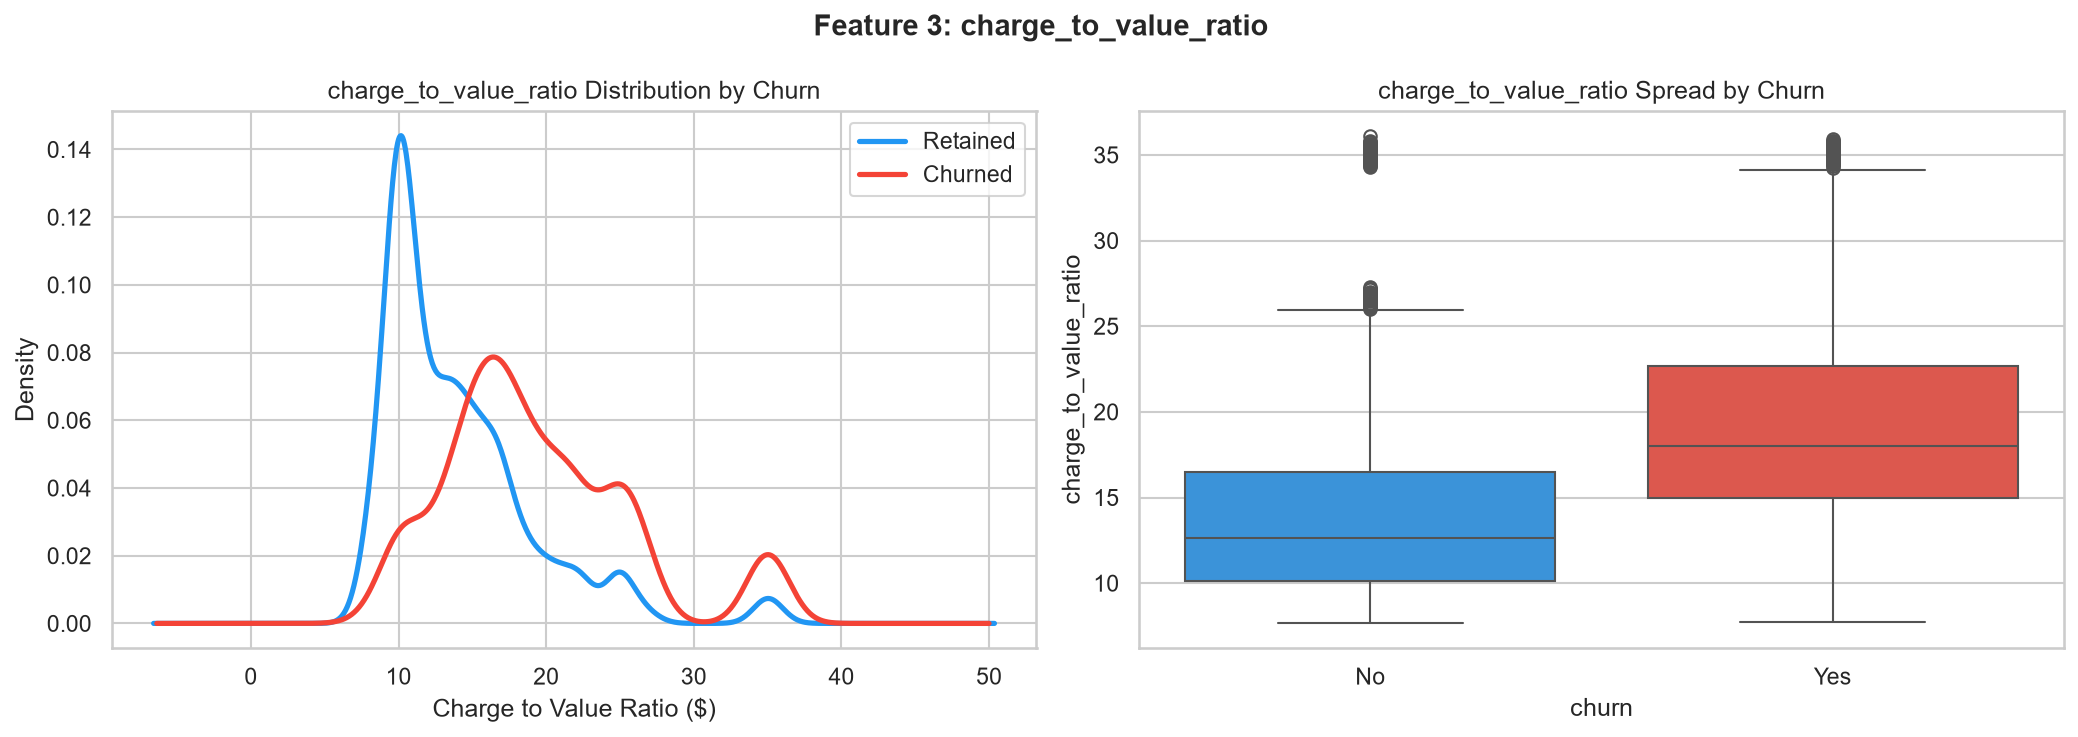
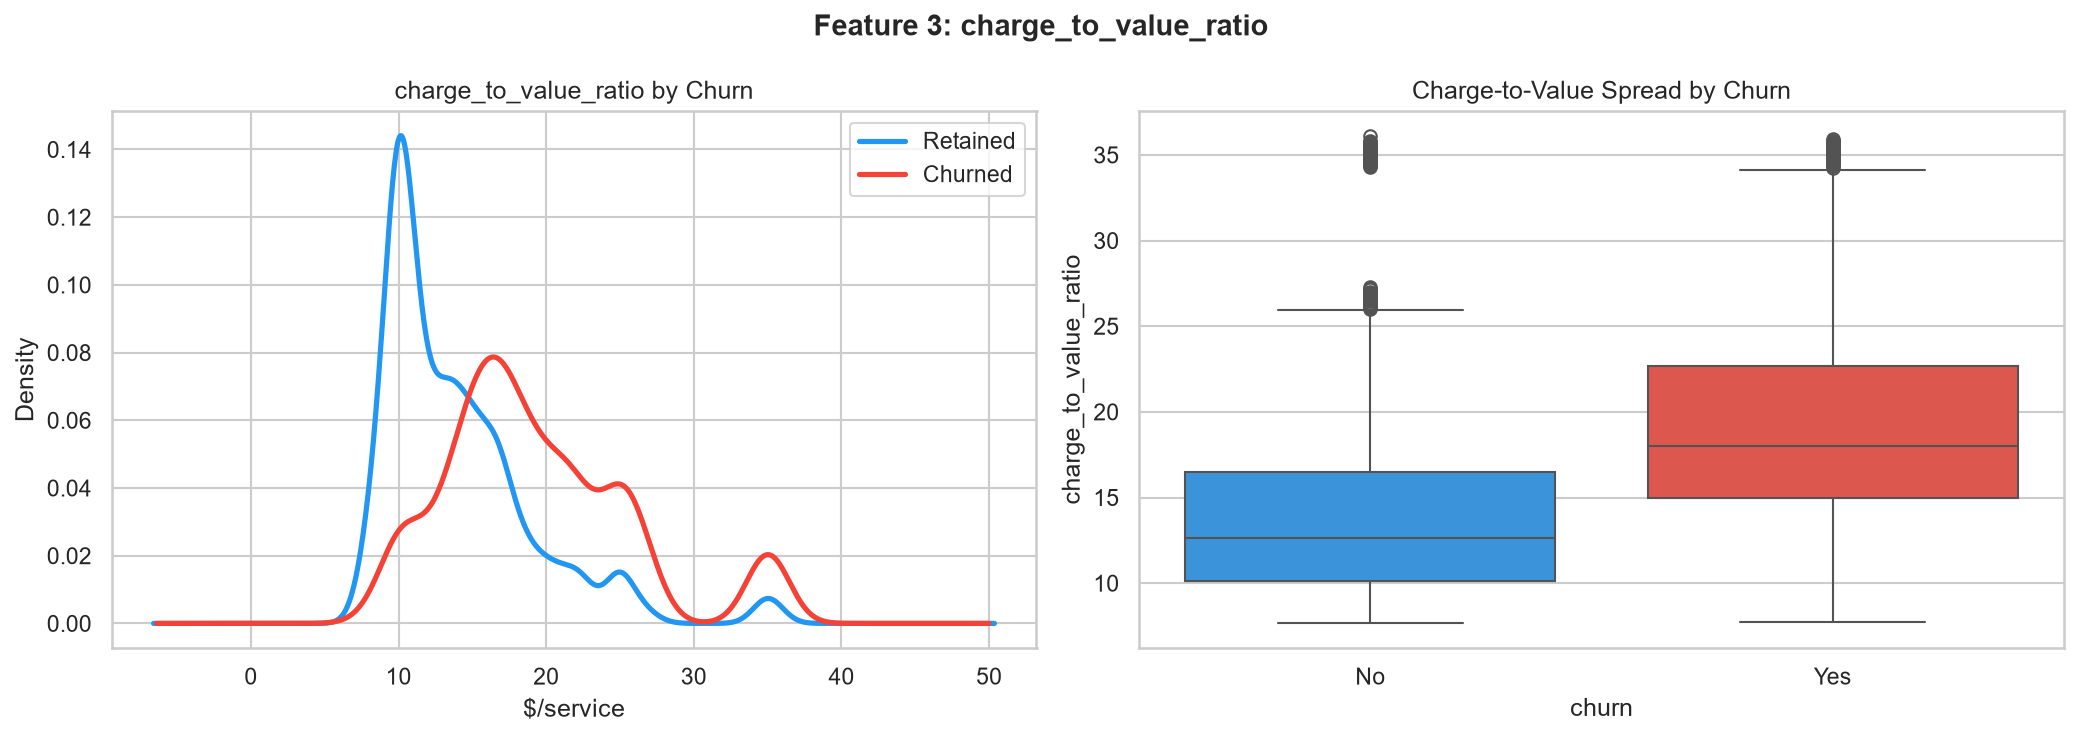
simplified feature engineering

Changed region(s): [[0.154, 0.0936, 0.4004, 0.156], [0.6776, 0.0936, 0.8624, 0.156], [0.2156, 0.9362, 0.3388, 0.9986]]

diff --git a/feature_engineering.py b/feature_engineering.py
@@ -7,201 +7,162 @@ from dotenv import load_dotenv
 import os
 import warnings
 warnings.filterwarnings("ignore")
- 
-# 0. SETUP 
+
+# ── SETUP ────────────────────────────────────────────────────────────────────
 load_dotenv()
- 
+
 engine = create_engine(
     f"postgresql+psycopg2://{os.getenv('DB_USER')}:{os.getenv('DB_PASSWORD')}"
     f"@{os.getenv('DB_HOST')}:{os.getenv('DB_PORT')}/{os.getenv('DB_NAME')}"
 )
- 
+
 sns.set_theme(style="whitegrid", palette="muted")
+PALETTE    = {"No": "#2196F3", "Yes": "#F44336"}
 OUTPUT_DIR = "feature_engineering_outputs"
 os.makedirs(OUTPUT_DIR, exist_ok=True)
- 
+
 df = pd.read_sql("SELECT * FROM customers", engine)
 df["total_charges"] = pd.to_numeric(df["total_charges"], errors="coerce").fillna(0)
-print(f"Loaded {df.shape[0]} rows, {df.shape[1]} columns\n")
- 
+print(f"✅ Loaded {df.shape[0]} rows, {df.shape[1]} columns\n")
+
 # Normalize service columns upfront
-service_all = ["phone_service", "multiple_lines", "online_security",
-               "online_backup", "device_protection", "tech_support",
-               "streaming_tv", "streaming_movies"]
-for col in service_all:
+SERVICE_COLS = [
+    "phone_service", "multiple_lines", "online_security",
+    "online_backup",  "device_protection", "tech_support",
+    "streaming_tv",   "streaming_movies"
+]
+for col in SERVICE_COLS:
     df[col] = df[col].replace({"No internet service": "No", "No phone service": "No"})
 
-# Feature 1: charge_per_tenure
-print("=" * 60)
-print("FEATURE 1 — charge_per_tenure")
-print("=" * 60)
- 
+# ── REUSABLE HELPERS ─────────────────────────────────────────────────────────
+
+def print_feature(name, formula, col):
+    """Print feature stats — min, max, mean by churn."""
+    print(f"\nFormula  : {formula}")
+    print(f"Min/Max  : {df[col].min():.2f} / {df[col].max():.2f}")
+    print(f"Mean by churn:\n{df.groupby('churn')[col].mean().round(3)}")
+
+def plot_kde_box(col, title, xlabel, filename):
+    """KDE + boxplot side by side — used for continuous features."""
+    fig, axes = plt.subplots(1, 2, figsize=(14, 5))
+    for val, color, label in [("No", "#2196F3", "Retained"), ("Yes", "#F44336", "Churned")]:
+        df[df["churn"] == val][col].plot.kde(
+            ax=axes[0], color=color, label=label, linewidth=2.5)
+    axes[0].set_title(f"{col} Distribution by Churn")
+    axes[0].set_xlabel(xlabel)
+    axes[0].legend()
+    sns.boxplot(data=df, x="churn", y=col, ax=axes[1], palette=PALETTE)
+    axes[1].set_title(f"{col} Spread by Churn")
+    plt.suptitle(title, fontsize=14, fontweight="bold")
+    plt.tight_layout()
+    plt.savefig(f"{OUTPUT_DIR}/{filename}", dpi=150, bbox_inches="tight")
+    plt.close()
+    print(f"Plot saved: {OUTPUT_DIR}/{filename}")
+
+def plot_bar_box(col, title, xlabel, filename):
+    """Stacked bar + boxplot — used for count-based features."""
+    fig, axes = plt.subplots(1, 2, figsize=(14, 5))
+    ct = df.groupby([col, "churn"]).size().unstack(fill_value=0)
+    ct_pct = ct.div(ct.sum(axis=1), axis=0) * 100
+    ct_pct.plot(kind="bar", stacked=True, ax=axes[0],
+                color=["#2196F3", "#F44336"], edgecolor="white", rot=0)
+    axes[0].set_title(f"Churn Rate by {col}")
+    axes[0].set_xlabel(xlabel)
+    axes[0].legend(title="Churn", labels=["No", "Yes"])
+    sns.boxplot(data=df, x="churn", y=col, ax=axes[1], palette=PALETTE)
+    axes[1].set_title(f"{col} Spread by Churn")
+    plt.suptitle(title, fontsize=14, fontweight="bold")
+    plt.tight_layout()
+    plt.savefig(f"{OUTPUT_DIR}/{filename}", dpi=150, bbox_inches="tight")
+    plt.close()
+    print(f"Plot saved: {OUTPUT_DIR}/{filename}")
+
+def section(n, name):
+    """Print section header."""
+    print(f"\n{'=' * 60}")
+    print(f"FEATURE {n} — {name}")
+    print("=" * 60)
+
+# ── FEATURE 1: charge_per_tenure ─────────────────────────────────────────────
+section(1, "charge_per_tenure")
 df["charge_per_tenure"] = df["total_charges"] / (df["tenure"] + 1)
- 
-print(f"\nFormula  : total_charges / (tenure + 1)")
-print(f"Min/Max  : {df['charge_per_tenure'].min():.2f} / {df['charge_per_tenure'].max():.2f}")
-print(f"Mean by churn:\n{df.groupby('churn')['charge_per_tenure'].mean().round(2)}")
- 
-fig, axes = plt.subplots(1, 2, figsize=(14, 5))
-for val, color, label in [("No", "#2196F3", "Retained"), ("Yes", "#F44336", "Churned")]:
-    df[df["churn"] == val]["charge_per_tenure"].plot.kde(ax=axes[0], color=color, label=label, linewidth=2.5)
-axes[0].set_title("charge_per_tenure Distribution by Churn")
-axes[0].set_xlabel("Charge per Tenure ($)")
-axes[0].legend()
-sns.boxplot(data=df, x="churn", y="charge_per_tenure", ax=axes[1], palette={"No": "#2196F3", "Yes": "#F44336"})
-axes[1].set_title("charge_per_tenure Spread by Churn")
-plt.suptitle("Feature 1: charge_per_tenure", fontsize=14, fontweight="bold")
-plt.tight_layout()
-plt.savefig(f"{OUTPUT_DIR}/01_charge_per_tenure.png", dpi=150, bbox_inches="tight")
-plt.close()
-print(f"Plot saved: {OUTPUT_DIR}/01_charge_per_tenure.png")
+print_feature("charge_per_tenure", "total_charges / (tenure + 1)", "charge_per_tenure")
+plot_kde_box("charge_per_tenure", "Feature 1: charge_per_tenure",
+             "Charge per Tenure ($)", "01_charge_per_tenure.png")
 
-# Feature 2 : Service Count
-print("\n" + "=" * 60)
-print("FEATURE 2 — service_count")
-print("=" * 60)
- 
-df["service_count"] = df[service_all].apply(lambda row: (row == "Yes").sum(), axis=1)
- 
-print(f"\nFormula  : count of subscribed add-on services (0-8)")
-print(f"Min/Max  : {df['service_count'].min()} / {df['service_count'].max()}")
-print(f"Mean by churn:\n{df.groupby('churn')['service_count'].mean().round(2)}")
- 
-fig, axes = plt.subplots(1, 2, figsize=(14, 5))
-sc_churn = df.groupby(["service_count", "churn"]).size().unstack(fill_value=0)
-sc_pct = sc_churn.div(sc_churn.sum(axis=1), axis=0) * 100
-sc_pct.plot(kind="bar", stacked=True, ax=axes[0], color=["#2196F3", "#F44336"], edgecolor="white", rot=0)
-axes[0].set_title("Churn Rate by Service Count")
-axes[0].set_xlabel("Number of Services")
-axes[0].legend(title="Churn", labels=["No", "Yes"])
-sns.boxplot(data=df, x="churn", y="service_count", ax=axes[1], palette={"No": "#2196F3", "Yes": "#F44336"})
-axes[1].set_title("Service Count Spread by Churn")
-plt.suptitle("Feature 2: service_count", fontsize=14, fontweight="bold")
-plt.tight_layout()
-plt.savefig(f"{OUTPUT_DIR}/02_service_count.png", dpi=150, bbox_inches="tight")
-plt.close()
-print(f"Plot saved: {OUTPUT_DIR}/02_service_count.png")
+# ── FEATURE 2: service_count ──────────────────────────────────────────────────
+section(2, "service_count")
+df["service_count"] = df[SERVICE_COLS].apply(lambda row: (row == "Yes").sum(), axis=1)
+print_feature("service_count", "count of subscribed services (0-8)", "service_count")
+plot_bar_box("service_count", "Feature 2: service_count",
+             "Number of Services", "02_service_count.png")
 
-# Feature 3: charge_to_value_ratio
-print("\n" + "=" * 60)
-print("FEATURE 3 — charge_to_value_ratio")
-print("=" * 60)
- 
-df["charge_to_value_ratio"] = df["monthly_charges"] / (df["service_count"] + 1)
- 
-print(f"\nFormula  : monthly_charges / (service_count + 1)")
-print(f"Min/Max  : {df['charge_to_value_ratio'].min():.2f} / {df['charge_to_value_ratio'].max():.2f}")
-print(f"Mean by churn:\n{df.groupby('churn')['charge_to_value_ratio'].mean().round(2)}")
- 
-fig, axes = plt.subplots(1, 2, figsize=(14, 5))
-for val, color, label in [("No", "#2196F3", "Retained"), ("Yes", "#F44336", "Churned")]:
-    df[df["churn"] == val]["charge_to_value_ratio"].plot.kde(ax=axes[0], color=color, label=label, linewidth=2.5)
-axes[0].set_title("charge_to_value_ratio by Churn")
-axes[0].set_xlabel("$/service")
-axes[0].legend()
-sns.boxplot(data=df, x="churn", y="charge_to_value_ratio", ax=axes[1], palette={"No": "#2196F3", "Yes": "#F44336"})
-axes[1].set_title("Charge-to-Value Spread by Churn")
-plt.suptitle("Feature 3: charge_to_value_ratio", fontsize=14, fontweight="bold")
-plt.tight_layout()
-plt.savefig(f"{OUTPUT_DIR}/03_charge_to_value_ratio.png", dpi=150, bbox_inches="tight")
-plt.close()
-print(f"Plot saved: {OUTPUT_DIR}/03_charge_to_value_ratio.png")
+# ── FEATURE 3: charge_to_value_ratio ─────────────────────────────────────────
+section(3, "charge_to_value_ratio")
+df["charge_to_value_ratio"] = (df["monthly_charges"] / (df["service_count"] + 1)).round(4)
+print_feature("charge_to_value_ratio", "monthly_charges / (service_count + 1)", "charge_to_value_ratio")
+plot_kde_box("charge_to_value_ratio", "Feature 3: charge_to_value_ratio",
+             "$/service", "03_charge_to_value_ratio.png")
 
-#Feature 4: support_dependency_score
-print("\n" + "=" * 60)
-print("FEATURE 4 — support_dependency_score")
-print("=" * 60)
- 
-support_cols = ["online_security", "device_protection", "tech_support", "online_backup"]
-df["support_dependency_score"] = df[support_cols].apply(lambda row: (row == "Yes").sum(), axis=1)
- 
-print(f"\nFormula  : count of support/protection services (0-4)")
-print(f"Min/Max  : {df['support_dependency_score'].min()} / {df['support_dependency_score'].max()}")
-print(f"Mean by churn:\n{df.groupby('churn')['support_dependency_score'].mean().round(2)}")
- 
-fig, axes = plt.subplots(1, 2, figsize=(14, 5))
-sd_churn = df.groupby(["support_dependency_score", "churn"]).size().unstack(fill_value=0)
-sd_pct = sd_churn.div(sd_churn.sum(axis=1), axis=0) * 100
-sd_pct.plot(kind="bar", stacked=True, ax=axes[0], color=["#2196F3", "#F44336"], edgecolor="white", rot=0)
-axes[0].set_title("Churn Rate by Support Dependency Score")
-axes[0].set_xlabel("Support Services (0-4)")
-axes[0].legend(title="Churn", labels=["No", "Yes"])
-sns.boxplot(data=df, x="churn", y="support_dependency_score", ax=axes[1], palette={"No": "#2196F3", "Yes": "#F44336"})
-axes[1].set_title("Support Dependency Spread by Churn")
-plt.suptitle("Feature 4: support_dependency_score", fontsize=14, fontweight="bold")
-plt.tight_layout()
-plt.savefig(f"{OUTPUT_DIR}/04_support_dependency_score.png", dpi=150, bbox_inches="tight")
-plt.close()
-print(f"Plot saved: {OUTPUT_DIR}/04_support_dependency_score.png")
+# ── FEATURE 4: support_dependency_score ──────────────────────────────────────
+section(4, "support_dependency_score")
+SUPPORT_COLS = ["online_security", "device_protection", "tech_support", "online_backup"]
+df["support_dependency_score"] = df[SUPPORT_COLS].apply(lambda row: (row == "Yes").sum(), axis=1)
+print_feature("support_dependency_score", "count of support/protection services (0-4)", "support_dependency_score")
+plot_bar_box("support_dependency_score", "Feature 4: support_dependency_score",
+             "Support Services (0-4)", "04_support_dependency_score.png")
 
-#Feature 5: tenure_contract_risk
-print("\n" + "=" * 60)
-print("FEATURE 5 — tenure_contract_risk")
-print("=" * 60)
- 
-df["tenure_norm"]   = df["tenure"] / df["tenure"].max()
-contract_map        = {"Month-to-month": 0, "One year": 1, "Two year": 2}
-df["contract_norm"] = df["contract"].map(contract_map) / 2
+# ── FEATURE 5: tenure_contract_risk ──────────────────────────────────────────
+section(5, "tenure_contract_risk")
+contract_map           = {"Month-to-month": 0, "One year": 1, "Two year": 2}
+df["tenure_norm"]      = df["tenure"] / df["tenure"].max()
+df["contract_norm"]    = df["contract"].map(contract_map) / 2
 df["tenure_contract_risk"] = (1 - df["tenure_norm"]) * (1 - df["contract_norm"])
- 
-print(f"\nFormula  : (1 - tenure_norm) * (1 - contract_norm)")
-print(f"Range    : {df['tenure_contract_risk'].min():.3f} to {df['tenure_contract_risk'].max():.3f}")
-print(f"Mean by churn:\n{df.groupby('churn')['tenure_contract_risk'].mean().round(3)}")
- 
-fig, axes = plt.subplots(1, 2, figsize=(14, 5))
-for val, color, label in [("No", "#2196F3", "Retained"), ("Yes", "#F44336", "Churned")]:
-    df[df["churn"] == val]["tenure_contract_risk"].plot.kde(ax=axes[0], color=color, label=label, linewidth=2.5)
-axes[0].set_title("tenure_contract_risk Distribution by Churn")
-axes[0].set_xlabel("Risk Score (0=low, 1=high)")
-axes[0].legend()
-sns.boxplot(data=df, x="churn", y="tenure_contract_risk", ax=axes[1], palette={"No": "#2196F3", "Yes": "#F44336"})
-axes[1].set_title("Tenure-Contract Risk Spread by Churn")
-plt.suptitle("Feature 5: tenure_contract_risk", fontsize=14, fontweight="bold")
-plt.tight_layout()
-plt.savefig(f"{OUTPUT_DIR}/05_tenure_contract_risk.png", dpi=150, bbox_inches="tight")
-plt.close()
-print(f"Plot saved: {OUTPUT_DIR}/05_tenure_contract_risk.png")
+print_feature("tenure_contract_risk", "(1 - tenure_norm) * (1 - contract_norm)", "tenure_contract_risk")
+plot_kde_box("tenure_contract_risk", "Feature 5: tenure_contract_risk",
+             "Risk Score (0=low, 1=high)", "05_tenure_contract_risk.png")
 
-# Correlation Summary
-print("\n" + "=" * 60)
+# ── CORRELATION SUMMARY ───────────────────────────────────────────────────────
+print(f"\n{'=' * 60}")
 print("FEATURE CORRELATION WITH CHURN")
 print("=" * 60)
- 
+
 df["churn_binary"] = (df["churn"] == "Yes").astype(int)
-engineered = ["charge_per_tenure", "service_count", "charge_to_value_ratio",
-              "support_dependency_score", "tenure_contract_risk"]
- 
-correlations = df[engineered + ["churn_binary"]].corr()["churn_binary"].drop("churn_binary")
+ENGINEERED = [
+    "charge_per_tenure", "service_count", "charge_to_value_ratio",
+    "support_dependency_score", "tenure_contract_risk"
+]
+
+correlations = df[ENGINEERED + ["churn_binary"]].corr()["churn_binary"].drop("churn_binary")
 print("\nPearson Correlation with Churn:")
 print(correlations.sort_values(key=abs, ascending=False).round(4))
- 
+
 fig, axes = plt.subplots(1, 2, figsize=(16, 6))
-corr_matrix = df[engineered + ["churn_binary"]].corr()
-sns.heatmap(corr_matrix, annot=True, fmt=".2f", cmap="coolwarm",
-            linewidths=0.5, ax=axes[0], vmin=-1, vmax=1, cbar_kws={"shrink": 0.8})
+sns.heatmap(df[ENGINEERED + ["churn_binary"]].corr(), annot=True, fmt=".2f",
+            cmap="coolwarm", linewidths=0.5, ax=axes[0],
+            vmin=-1, vmax=1, cbar_kws={"shrink": 0.8})
 axes[0].set_title("Engineered Feature Correlation Matrix", fontweight="bold")
 axes[0].tick_params(axis="x", rotation=45)
- 
+
 colors = ["#F44336" if c > 0 else "#2196F3" for c in correlations]
 axes[1].barh(correlations.index, correlations.values, color=colors, edgecolor="white")
 axes[1].axvline(x=0, color="black", linewidth=0.8)
 axes[1].set_title("Feature Correlation with Churn", fontweight="bold")
 axes[1].set_xlabel("Pearson Correlation Coefficient")
 for i, v in enumerate(correlations.values):
-    axes[1].text(v + (0.005 if v >= 0 else -0.005), i, f"{v:.3f}", va="center",
-                 ha="left" if v >= 0 else "right", fontsize=9)
+    axes[1].text(v + (0.005 if v >= 0 else -0.005), i, f"{v:.3f}",
+                 va="center", ha="left" if v >= 0 else "right", fontsize=9)
 plt.suptitle("Engineered Feature Correlations with Churn", fontsize=14, fontweight="bold")
 plt.tight_layout()
 plt.savefig(f"{OUTPUT_DIR}/06_feature_correlations.png", dpi=150, bbox_inches="tight")
 plt.close()
 print(f"\nPlot saved: {OUTPUT_DIR}/06_feature_correlations.png")
 
-# Save to PostgreSQL
+# ── SAVE TO POSTGRESQL ────────────────────────────────────────────────────────
 df_save = df.drop(columns=["tenure_norm", "contract_norm", "churn_binary"], errors="ignore")
 df_save.to_sql("customers_features", engine, if_exists="replace", index=False)
- 
+
 with engine.connect() as conn:
     count = conn.execute(text("SELECT COUNT(*) FROM customers_features")).scalar()
- 
-print(f"\n✅ Saved to table: customers_features | Rows: {count} | Cols: {df_save.shape[1]}")
 
+print(f"\n✅ Saved to table: customers_features | Rows: {count} | Cols: {df_save.shape[1]}")